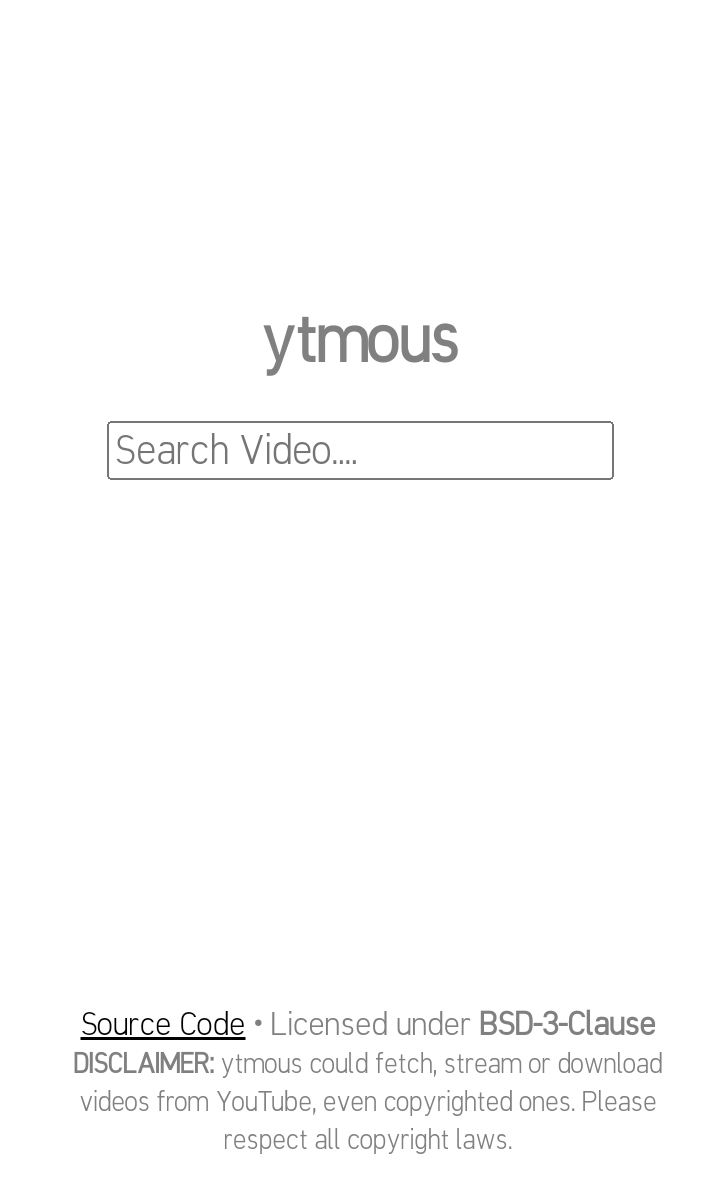
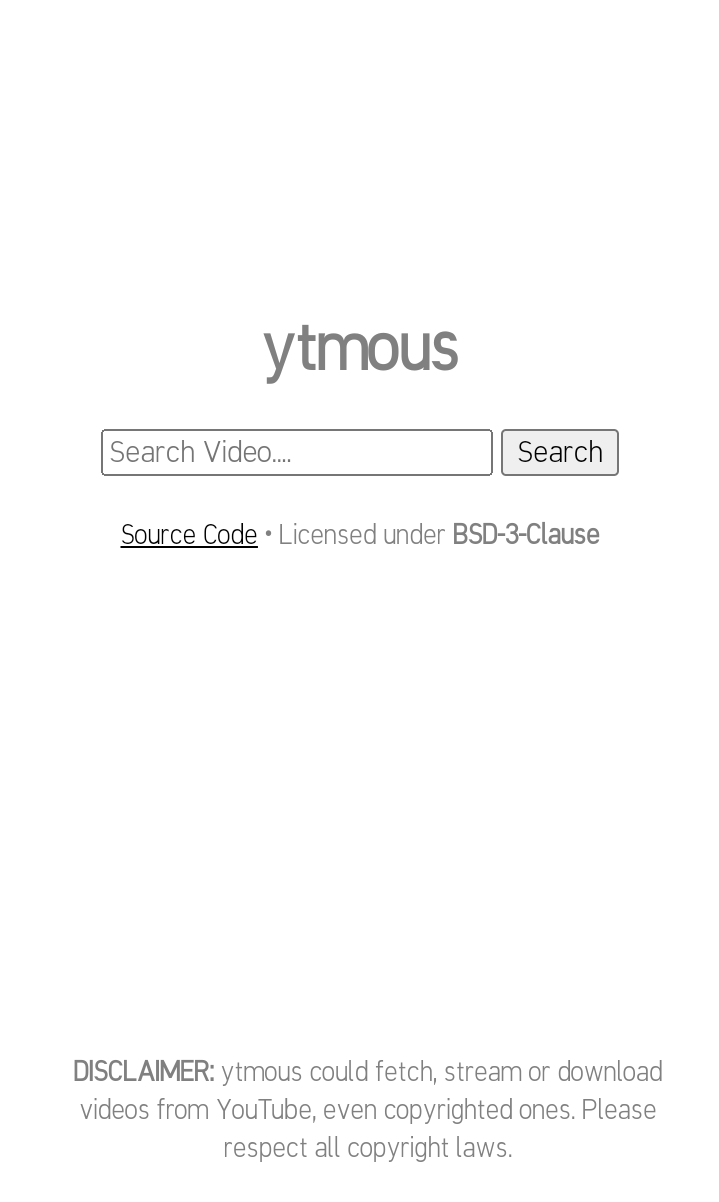
index.html: Add Search button. and update screenshot

Changed region(s): [[0.0918, 0.8353, 0.9179, 0.959], [0.1224, 0.2475, 0.8567, 0.4022], [0.153, 0.4331, 0.8261, 0.464]]

diff --git a/public/index.html b/public/index.html
@@ -6,18 +6,24 @@
     <title>ytmous</title>
     <meta name="description" content="Anonymous YouTube Proxy" />
   </head>
+  <style>
+    .formtext {
+      font-size: 15px;
+    }
+  </style>
   <body style="color: grey;">
     <div style="text-align: center; margin-top: 25vh;">
       <center>
         <h1>ytmous</h1>
         <form action="/s" method="GET">
-          <input name="q" type="text" style="font-size: 20px;" placeholder="Search Video...." />
-        </form>
+          <input class="formtext" name="q" type="text" placeholder="Search Video...." />
+          <input class="formtext" type="submit" value="Search" />
+        </form><br>
+        <small><a href="https://github.com/ytmous/ytmous" style="color: black;">Source Code</a> • Licensed under <b>BSD-3-Clause</b></small>
       </center>
     </div>
 
     <div style="padding: 15px; position: absolute; bottom: 5px; text-align: center;">
-      <span><a href="https://github.com/ytmous/ytmous" style="color: black;">Source Code</a> • Licensed under <b>BSD-3-Clause</b></span><br>
       <small><b>DISCLAIMER:</b> ytmous could fetch, stream or download videos from YouTube, even copyrighted ones. Please respect all copyright laws.</small>
     </div>
   </body>

diff --git a/etc/util.js b/etc/util.js
@@ -89,11 +89,10 @@ function getChunk(beginRange, req, res, headers, streamingData, streamSize, isSe
     });
 }
 
-function getCaptions(id, sub) {
+function getCaptions(info, sub) {
   try {
     let captions =
-      infos[id].player_response.captions.playerCaptionsTracklistRenderer
-        .captionTracks;
+      info.captions.playerCaptionsTracklistRenderer.captionTracks;
     if (!captions || !captions.length) return [];
     if (!sub) return captions;
 
@@ -131,6 +130,13 @@ function validateID(id) {
 
 function sendInvalidIDError(res, isAPI) {
   return module.exports.sendError(res, "Your requested video is invalid. Check your URL and try again.", "Invalid Video ID", 400, isAPI, 1);
+}
+
+async function getInfo(client, id) {
+  let res = await client.getInfo(id);
+  res.comments = await client.getComments(id);
+
+  return res;
 }
 
 module.exports = { clearListener, getSize, getChunk, getCaptions, sendError, validateID, sendInvalidIDError };
